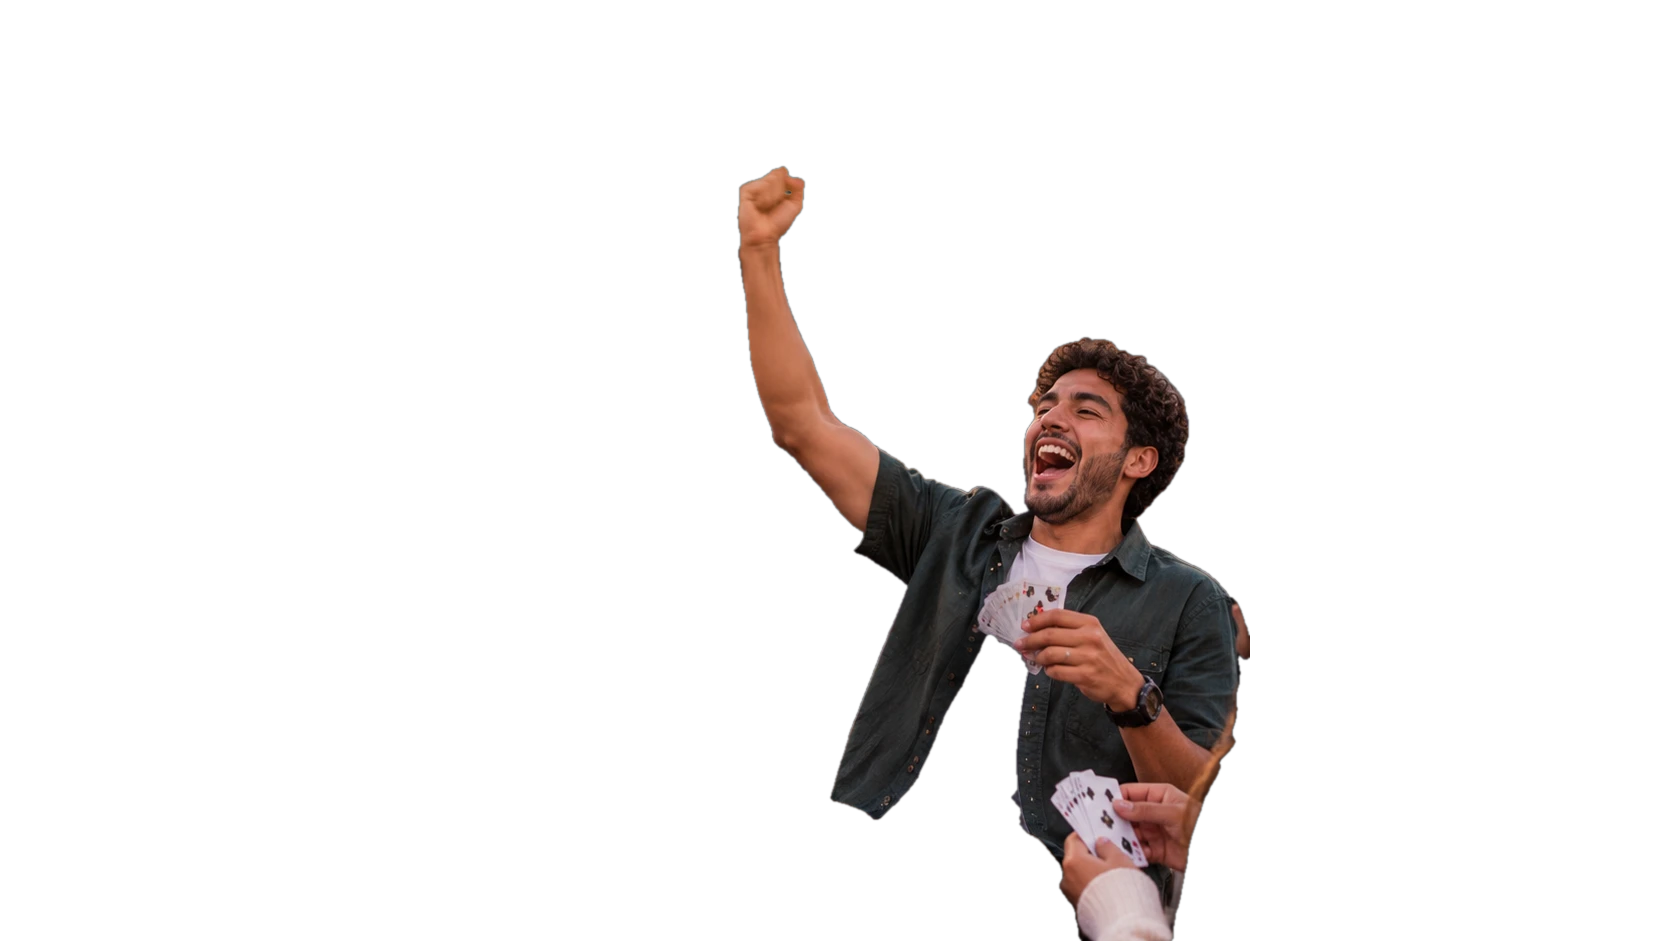
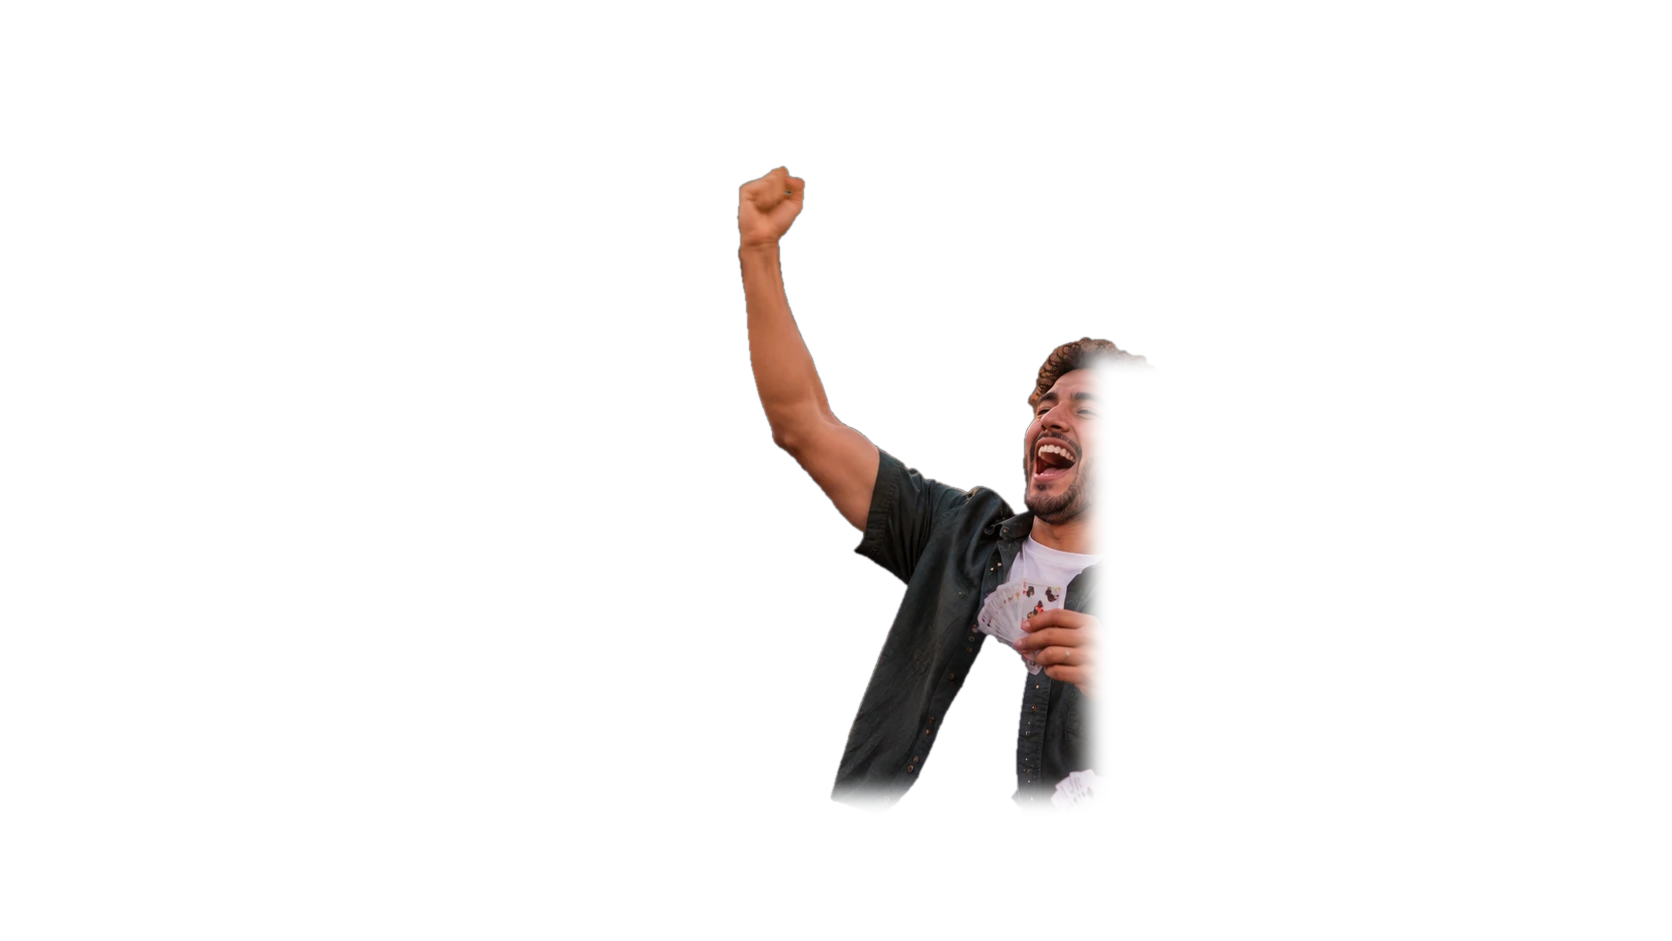
Fiestas de Quito: numbered activities card, no COMUNICA EP mentions, no script font, cleaner pop-out cutouts
Claude-Session: https://claude.ai/code/session_01XV7Zhs1JRrkW5hokRDRSy2

Changed region(s): [[0.5909, 0.339, 0.7464, 1.0], [0.4976, 0.8013, 0.5598, 0.8629]]

diff --git a/videos/fiestas-quito/index.html b/videos/fiestas-quito/index.html
@@ -40,6 +40,8 @@
       .strip { display: inline-block; padding: 6px 34px 14px; text-shadow: none; white-space: nowrap; }
       .strip.r { background: var(--red); }
       .strip.b { background: var(--blue); }
+      .num { width: 120px; height: 120px; margin-bottom: 20px; display: flex; align-items: center; justify-content: center; background: #fff; color: var(--red); font-weight: 800; font-size: 96px; line-height: 1; text-shadow: none; padding-top: 10px; }
+      .num.b { color: var(--blue); }
       .tag { display: inline-block; padding: 10px 40px 16px; font-weight: 800; font-size: 50px; line-height: 1; text-shadow: none; background: #fff; color: var(--blue); }
       #logo-in { position: absolute; left: 560px; top: 160px; width: 800px; filter: drop-shadow(0 18px 30px rgba(0, 0, 0, 0.5)); }
       .confetti { position: absolute; width: 14px; height: 22px; }
@@ -47,8 +49,8 @@
     </style>
   </head>
   <body>
-    <div id="root" data-composition-id="main" data-start="0" data-duration="50" data-width="1920" data-height="1080">
-      <div id="stage" class="clip" data-start="0" data-duration="50" data-track-index="0">
+    <div id="root" data-composition-id="main" data-start="0" data-duration="55" data-width="1920" data-height="1080">
+      <div id="stage" class="clip" data-start="0" data-duration="55" data-track-index="0">
         <!-- Intro -->
         <div class="scene" id="s0">
           <div class="bg"><img src="assets/fotos/chiva.jpg" alt="" /></div>
@@ -66,8 +68,7 @@
             <div class="m" style="margin-top: 16px">de historia, tradición y alegría</div>
           </div>
           <div class="t" id="t1b" style="left: 140px; top: 330px">
-            <div class="m">En COMUNICA EP</div>
-            <div class="l"><span class="strip r torn">¡estamos de fiesta!</span></div>
+            <div class="l" style="font-size: 130px"><span class="strip r torn">¡Estamos de fiesta!</span></div>
           </div>
         </div>
 
@@ -79,8 +80,18 @@
             <div class="m">Este</div>
             <div class="xl">4 de diciembre</div>
             <div class="m" style="margin-top: 26px">Juegos · Creatividad · Sabores quiteños</div>
-            <div class="script" style="margin-top: 14px">¡Súmate con tu equipo!</div>
+            <div class="l" style="margin-top: 22px; font-size: 64px"><span class="strip b torn">¡Súmate con tu equipo!</span></div>
           </div>
+        </div>
+
+        <!-- Las 3 actividades -->
+        <div class="scene" id="sA" style="background: var(--blue-dark)">
+          <div class="torn" id="aPaper" style="position: absolute; left: -60px; top: 60px; width: 2040px; height: 300px; background: var(--red)"></div>
+          <div class="t" id="aT" style="left: 0; top: 80px; width: 1920px; text-align: center">
+            <div class="xl" style="font-size: 150px">3 actividades</div>
+            <div class="m" style="margin-top: 10px">para festejar a la Carita de Dios</div>
+          </div>
+          <div id="aCards"></div>
         </div>
 
         <!-- DP3 · 40 -->
@@ -88,6 +99,7 @@
           <div class="bg"><img src="assets/fotos/cuarenta.jpg" alt="" /></div>
           <div class="veil" style="background: linear-gradient(90deg, rgba(13, 58, 140, 0.95) 0%, rgba(21, 84, 192, 0.82) 38%, rgba(21, 84, 192, 0.15) 70%, rgba(0, 0, 0, 0) 100%)"></div>
           <div class="t" id="t3" style="left: 120px; top: 150px; width: 820px">
+            <div class="num torn">1</div>
             <div class="l"><span class="strip r torn">Campeonato</span></div>
             <div class="xl" style="margin-top: 6px">de 40</div>
             <div class="m" style="margin-top: 26px">En parejas · $10</div>
@@ -102,6 +114,7 @@
           <div class="bg"><img src="assets/fotos/leyenda.jpg" alt="" /></div>
           <div class="veil" style="background: linear-gradient(90deg, rgba(184, 32, 42, 0.95) 0%, rgba(232, 55, 62, 0.82) 30%, rgba(232, 55, 62, 0.1) 62%, rgba(0, 0, 0, 0) 100%)"></div>
           <div class="t" id="t4" style="left: 110px; top: 180px; width: 720px">
+            <div class="num torn b">2</div>
             <div class="m">Concurso de</div>
             <div class="l" style="font-size: 120px">Leyendas quiteñas</div>
             <div class="s" style="margin-top: 26px">Represéntala con disfraces, música y escenografía</div>
@@ -115,6 +128,7 @@
           <div class="bg"><img src="assets/fotos/postres.jpg" alt="" /></div>
           <div class="veil" style="background: linear-gradient(90deg, rgba(13, 58, 140, 0.95) 0%, rgba(21, 84, 192, 0.85) 38%, rgba(21, 84, 192, 0.15) 72%, rgba(0, 0, 0, 0) 100%)"></div>
           <div class="t" id="t5" style="left: 120px; top: 190px; width: 820px">
+            <div class="num torn">3</div>
             <div class="m">Concurso de</div>
             <div class="l" style="font-size: 120px">Postres quiteños</div>
             <div class="s" style="margin-top: 26px">Prepara en equipo un postre tradicional, dulce o salado</div>
@@ -129,7 +143,7 @@
           <div class="pop" id="p6"><img src="assets/fotos/chiva-pop.png" alt="" /></div>
           <div class="t" id="t6" style="left: 0; top: 650px; width: 1920px; text-align: center">
             <div class="xl" style="font-size: 170px"><span class="strip r torn">¡Qué viva Quito!</span></div>
-            <div class="m" style="margin-top: 22px">Nos vemos el 4 de diciembre · COMUNICA EP</div>
+            <div class="m" style="margin-top: 22px">Nos vemos el 4 de diciembre</div>
           </div>
           <img id="logo-out" src="assets/logo-fiestas.png" alt="" style="position: absolute; left: 70px; top: 50px; width: 300px; filter: drop-shadow(0 10px 20px rgba(0, 0, 0, 0.5))" />
         </div>
@@ -162,7 +176,7 @@
       document.querySelectorAll(".torn").forEach((e) => (e.style.clipPath = torn(e.offsetWidth, e.offsetHeight)));
 
       /* Escenas: intro 4 · DP1 7 · DP2 7 · DP3 9 · DP4 7 · DP5 7 · DP6 9 */
-      const T = [0, 4, 11, 18, 27, 34, 41, 50];
+      const T = [0, 4, 11, 22.5, 31.5, 38.5, 45.5, 55]; // DP2 termina en 18; 18–22.5 = «3 actividades»
       const DUR = T[7];
 
       /* Confeti de papel solo rojo, azul y blanco */
@@ -197,7 +211,6 @@
         const p = sc.querySelector(".pop");
         if (p) {
           tl.fromTo(p, { scale: z0 }, { scale: z1, duration: d, ease: "sine.out" }, T[k]);
-          tl.fromTo(p.firstChild, { scale: 1, y: 0 }, { scale: 1.06, y: -18, transformOrigin: "50% 100%", duration: 0.7, ease: "back.out(2)" }, T[k] + 1.0);
         }
       };
       // texto en bloque, legible de inmediato
@@ -219,6 +232,21 @@
       /* DP2 */
       wipe(T[2]); scene(2);
       textIn("#t2", T[2] + 0.2);
+
+      /* Las 3 actividades: fotos rasgadas numeradas */
+      const TA = 18, TA2 = 22.5;
+      tl.set("#s2", { visibility: "hidden" }, TA);
+      wipe(TA); show("#sA", TA, TA2);
+      $("aPaper").style.clipPath = torn(2040, 300, 22, 20);
+      tl.fromTo("#aT", { opacity: 0, scale: 0.85 }, { opacity: 1, scale: 1, duration: 0.6, ease: "back.out(1.8)" }, TA + 0.15);
+      [["cuarenta", "Campeonato de 40", -4, "#e8373e"], ["leyenda", "Leyendas quiteñas", 3, "#1554c0"], ["postres", "Postres quiteños", -2, "#e8373e"]].forEach(([src, lab, r, c], i) => {
+        const card = el("div");
+        Object.assign(card.style, { position: "absolute", left: 120 + i * 580 + "px", top: "440px", width: "520px", height: "440px", filter: "drop-shadow(0 16px 22px rgba(0,0,0,0.45))" });
+        card.innerHTML = `<div style="position:absolute;inset:0;background:#fffdf7"></div><img src="assets/fotos/${src}.jpg" style="position:absolute;left:16px;top:16px;width:488px;height:300px;object-fit:cover" alt="" /><div style="position:absolute;left:0;top:330px;width:520px;text-align:center;color:#1d2340;font-weight:800;font-size:44px">${lab}</div><div style="position:absolute;left:-30px;top:-34px;width:96px;height:96px;border-radius:50%;background:${c};color:#fff;font-weight:800;font-size:66px;display:flex;align-items:center;justify-content:center;padding-top:8px">${i + 1}</div>`;
+        $("aCards").appendChild(card);
+        card.firstChild.style.clipPath = torn(520, 440, 12, 14);
+        tl.fromTo(card, { y: 700, rotation: r + 14, opacity: 0 }, { y: 0, rotation: r, opacity: 1, duration: 0.7, ease: "back.out(1.5)" }, TA + 0.6 + i * 0.35);
+      });
 
       /* DP3 – DP5 */
       [3, 4, 5].forEach((k) => { wipe(T[k]); scene(k); textIn("#t" + k, T[k] + 0.3); });
